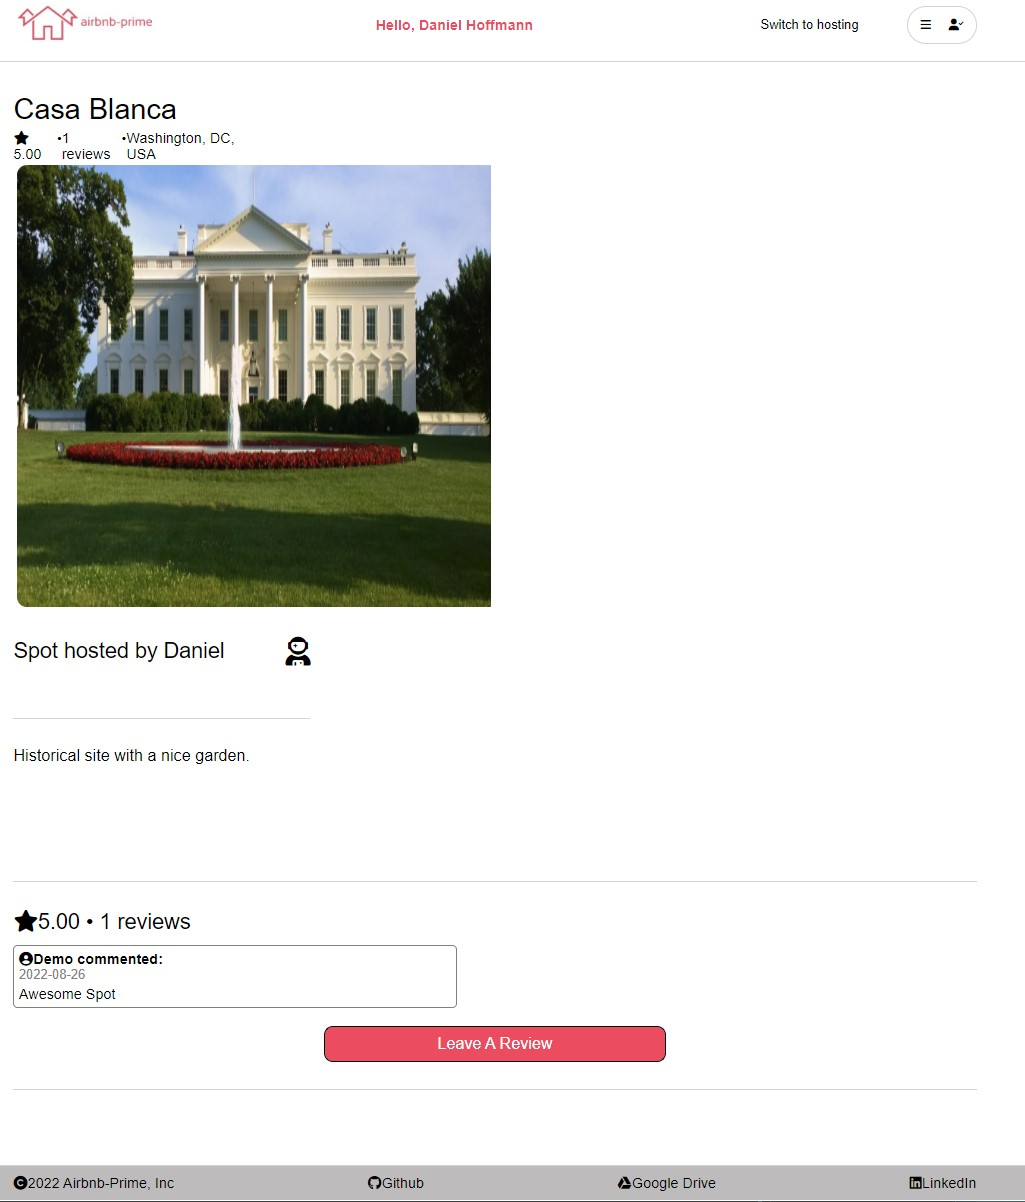
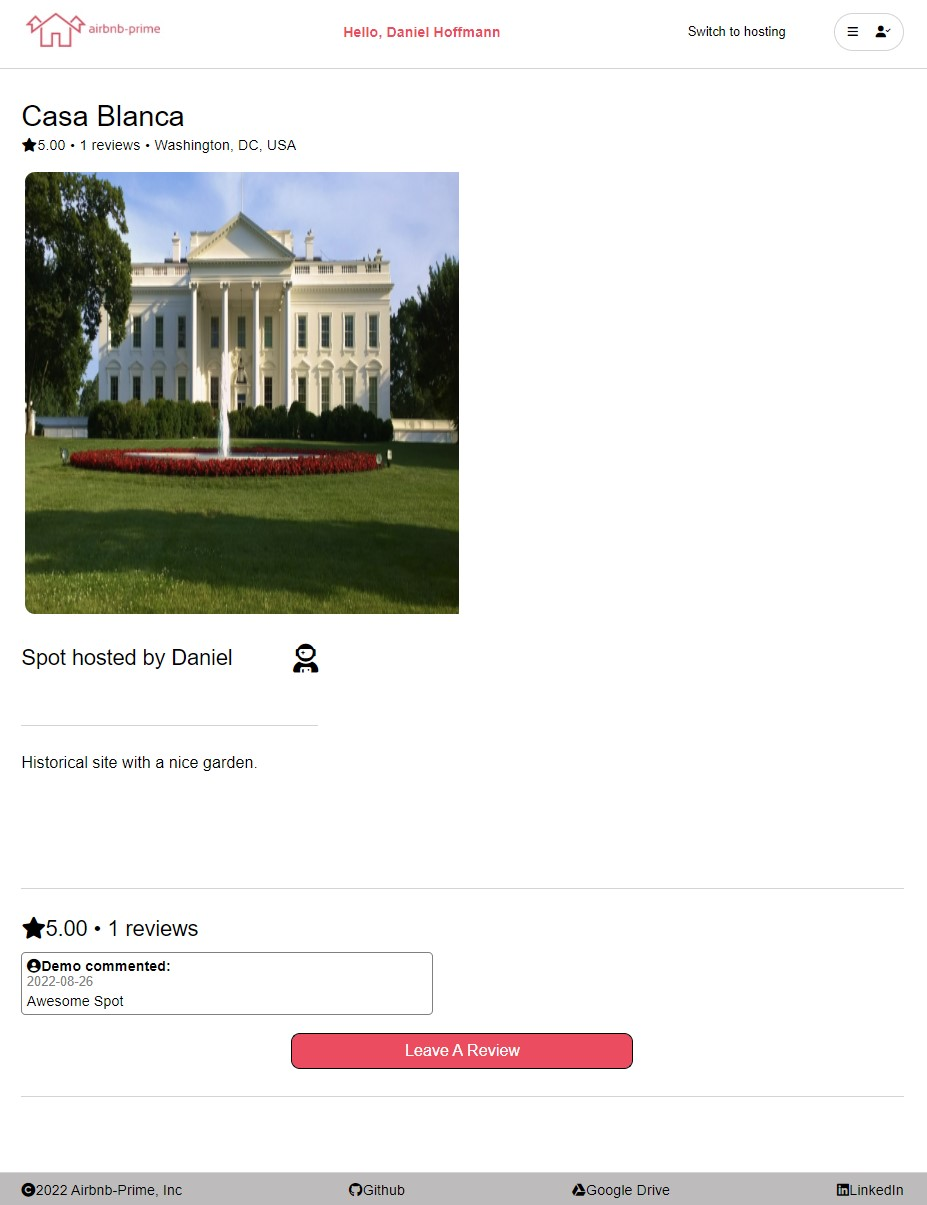
cleaned up readme more

diff --git a/frontend/src/components/AllSpots/SpotDetails.css b/frontend/src/components/AllSpots/SpotDetails.css
@@ -46,20 +46,20 @@
 #header-details-container > #spot-sub-details {
   font-size: medium;
   display: flex;
-  justify-content: space-between;
-  width: 280px;
+  justify-content: flex-start;
+  /* margin: 5px; */
+  /* width: 320px; */
   /* max-width: 40%; */
 }
 
-/* #count-reviews, #city-state-info {
-  text-decoration: underline;
-} */
+.circle {
+  margin-left: 5px;
+  margin-right: 5px;
+}
 
 #images-container {
   width: 100%;
-  /* width: 1000px; */
   display: grid;
-  /* grid-template-columns: 250px 250px 250px 250px; */
   grid-template-columns: 25% 25% 25% 25%;
   grid-template-rows: 250px 250px;
   grid-template-areas:

diff --git a/README.md b/README.md
@@ -57,8 +57,16 @@ If you would like to launch the site locally please do the following:
 1. Clone this repo using a terminal by going to a directory where you would like to download and typing `git clone https://github.com/Pepa90210/AirBnB.git`.
 * Alternatively, you may download the zip file and extract it to a folder on your computer.
 
-2. Go into the 'backend' directory and in the terminal type `npm install`.  Then type `npm start`.
+2. Go into the 'backend' directory and in the terminal type `npm install`.
 
-3. Open up a second terminal, go into the 'frontend' directory and in the terminal type `npm install`.  Then type `npm start`.  If you have Google Chrome, this should automatically launch the browser and direct you to `localhost:3000`.  If it did not launch automatically, manually open up a browser and go to `localhost:3000`.
+3. Create a .env in your 'backend' directory and copy paste eveything inside .env.example.
 
-4. Congrats, you have launched the app.
+4. Still in your 'backend' directory, load the migrations database using `npx dotenv sequelize db:migrate`.
+
+5. Still in you 'backend' directory, load the seed data into your database using `npx dotenv sequelize db:seed:all`.
+
+6. Type `npm start` to start your backend.
+
+7. Open up a second terminal, go into the 'frontend' directory and in the terminal type `npm install`.  Then type `npm start`.  If you have Google Chrome, this should automatically launch the browser and direct you to `localhost:3000`.  If it did not launch automatically, manually open up a browser and go to `localhost:3000`.
+
+8. Congrats, you have launched the app.
